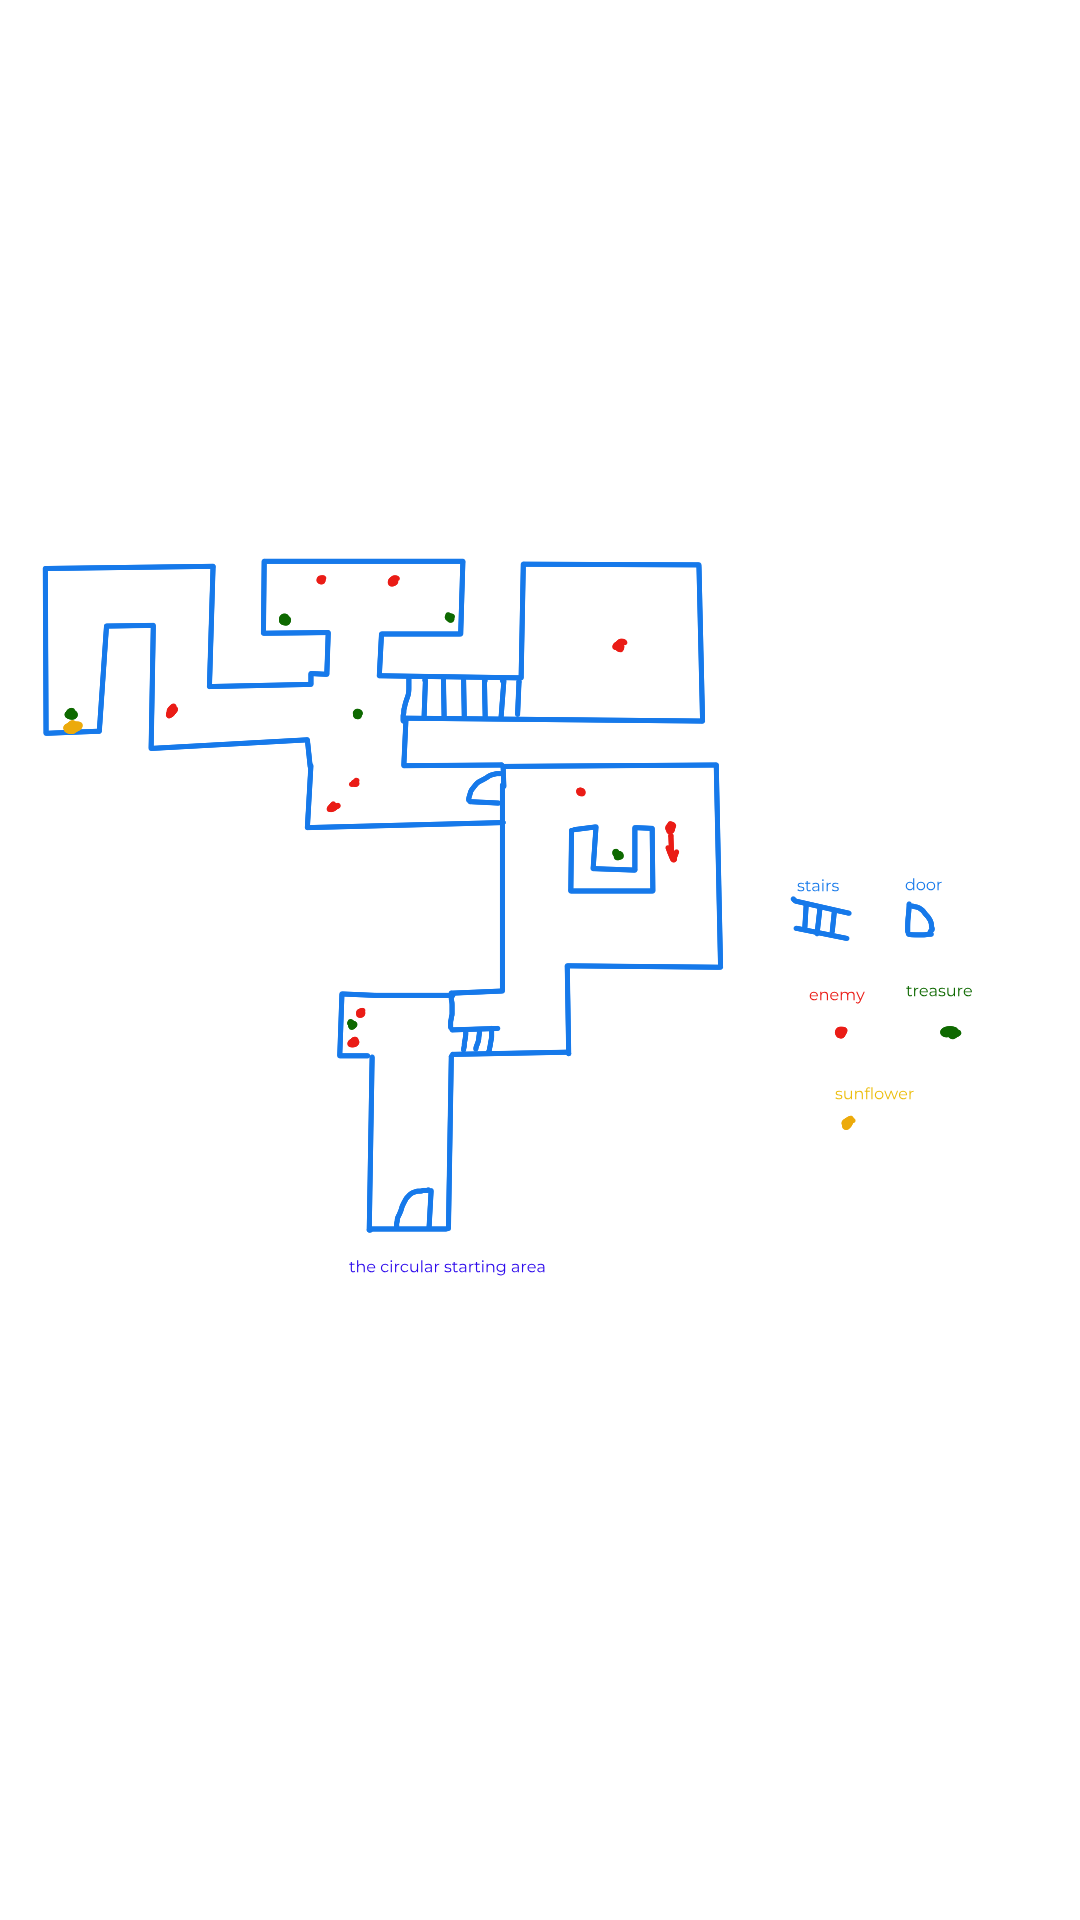
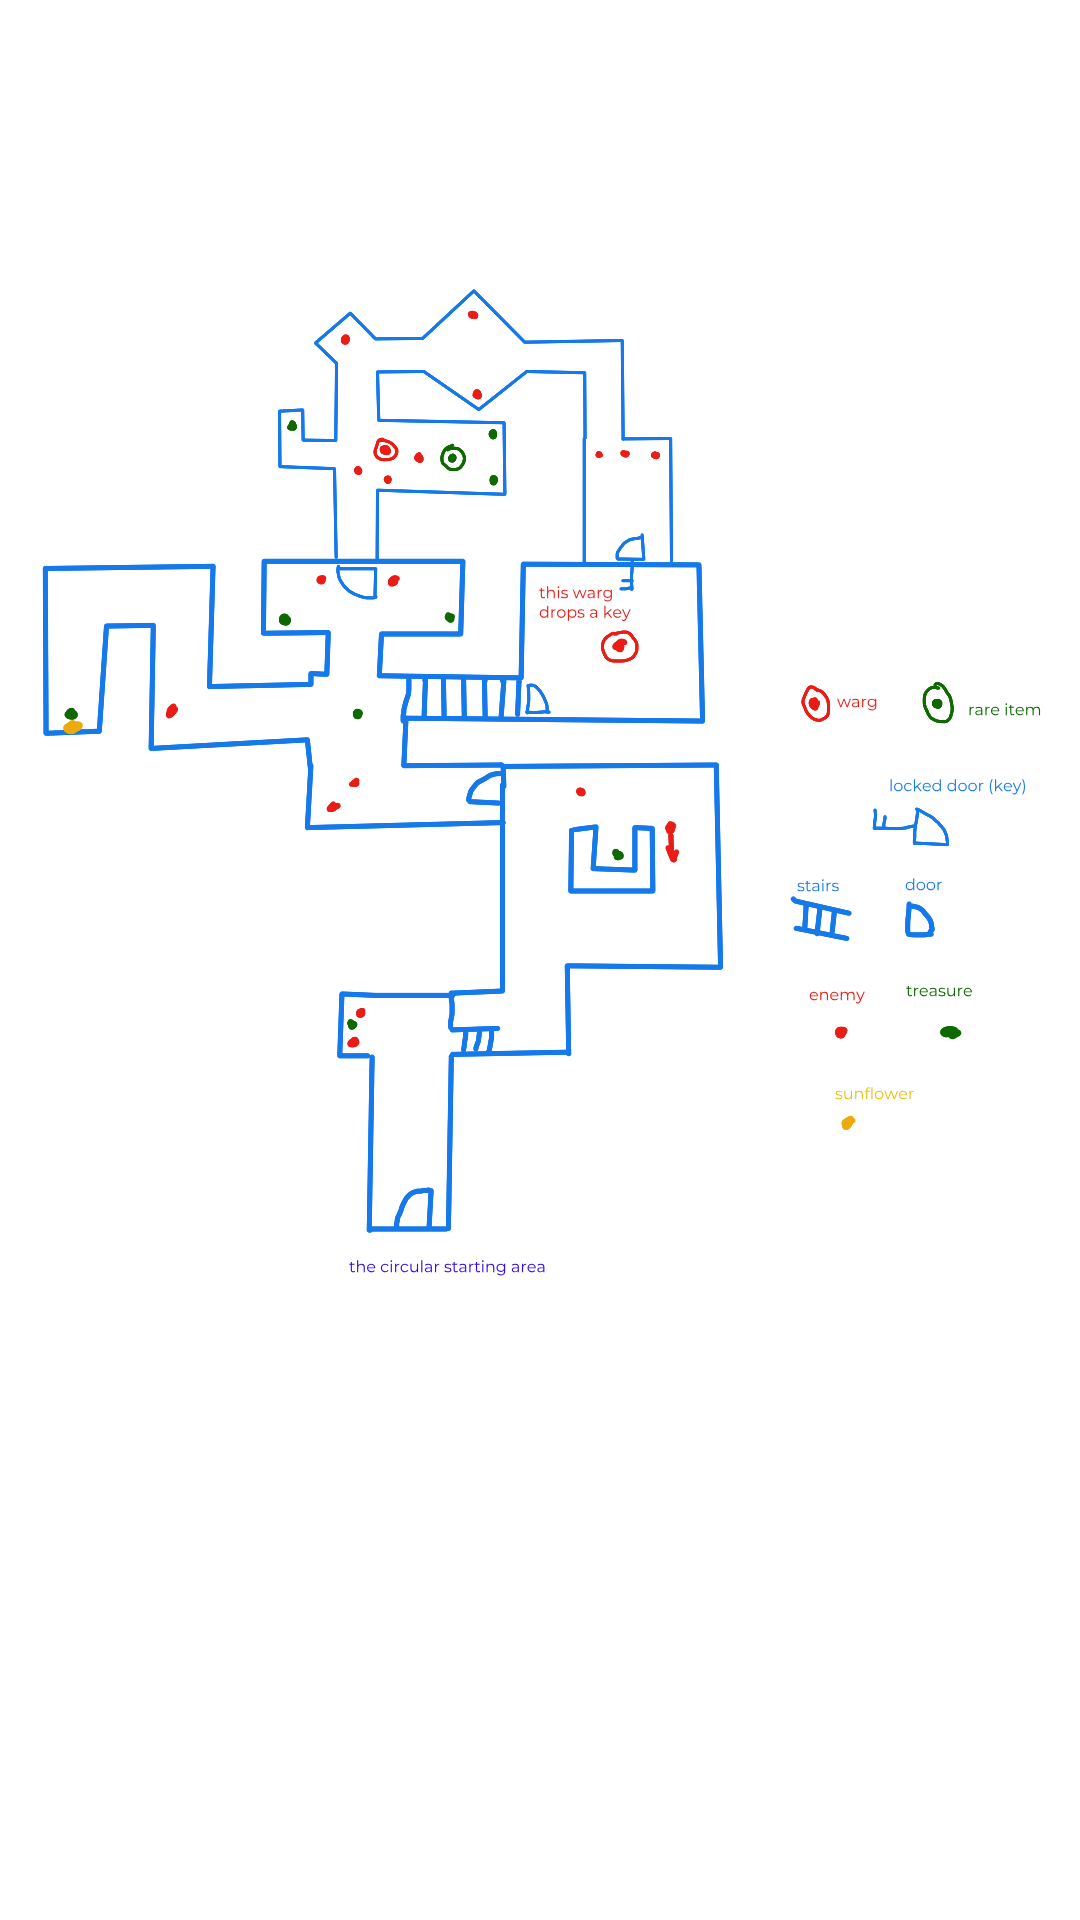
ROADMAP: Phase 8.10 plan (forgery sector, drops, one-way/locked doors)

diff --git a/ROADMAP.md b/ROADMAP.md
@@ -372,6 +372,30 @@ Request: replace the north-east enemy (the vault's) with a **warg**: more aggres
 - [ ] Poise: hits still interrupt the warg's pounce (a co-op partner can save you by hitting it) — decide whether the wind-up should have hyper armour
 - [ ] Refactor the Hollow AI onto the shared helpers the beast AI uses (target pick, sight, sidestepping are duplicated)
 
+### Phase 8.10 — The forgery sector, enemy drops, one-way and locked doors (user request, 2026-11-16; new plan in `assets/levels/lvl1.png`)
+Request, cleaned up:
+1. **Build the new northern sector** from the updated plan. The vault's warg drops a **key**. A **locked door** in the vault's north wall leads to a room with three Hollows. From there a corridor runs north, then west along the top: a NW nook with a Hollow, a peaked hall with a Hollow, a V-shaped dip with a Hollow. It then runs down the west side, past an alcove with a treasure, into the **forgery**: a second warg, three Hollows, the rare item and two treasures. A door at the bottom leads back into the T-room of the upper halls. There is also a new door between stairs 2 and the vault.
+2. **Enemy drops:** enemies can drop items when killed (chance; unique drops only once).
+3. **Doors collide when open** (reported: you can walk through an opened door).
+4. **One-way doors:** a door only opens from the side it swings away from. From the other side you can still interact, but you get a short notification that it only opens from the other side; online, everyone sees which player tried it ("PlayerX tried a door: …"). The door looping back into the T-room therefore only opens from the forgery.
+5. **The rare item** is a *Well-Forged Sword*: a longsword with slightly better stats.
+6. **The forgery look:** an anvil, a forge with a fire pit, and iron bars in the ceiling where sunlight shines in and the forge's steam escapes.
+
+Decisions:
+- The plan has no stairs in the new sector, but the vault (−3.5 m) and the T-room (−1.5 m) differ by 2 m. **Stairs in the narrow corridor north of the three-Hollow room** climb to −1.5 m (northward). The forgery and the loop are at −1.5 m.
+- Diagonal walls in the plan (NW nook, peaked hall, V dip) are approximated with stepped rectangles (the builder is axis-aligned).
+- Doors: `opens` gives the swing direction; you can open a door only from the opposite side. Locked doors name their key item, which isn't used up. Keys are unique drops.
+- Treasures in the new sector (unspecified in the plan): a Hop Cone in the alcove; a Poppy and a Camomile in the forgery.
+
+Steps:
+- [ ] Doors: collide when open; one-way rule + wrong-side notification (local + online "PlayerX…"); locked doors (key) + "Locked" notice
+- [ ] Doors on stair ends (the stairs 2 → vault door)
+- [ ] Enemy drops: level data (`drops`), unique drops remembered (save), host-owned online (`WorldEvent::Dropped`), Forge Key item + icon
+- [ ] Well-Forged Sword (weapon + item + icon)
+- [ ] New rooms, stairs, doors, enemies (second warg), treasures, torches in `lvl1.ron`
+- [ ] Forgery props: anvil, forge + fire pit (flicker light), ceiling grate with bars, sunlight shaft, rising steam
+- [ ] Autopilot through the new sector, screenshots, two-instance check, notes
+
 ### Phase 9 — Polish
 Order (2026-11-16): first everything that needs no outside assets, then the art (needs a decision on downloading CC0 models).
 - [x] Pause menu (Esc): Resume / Settings / Quit; the world keeps running (Souls), gameplay input blocked
